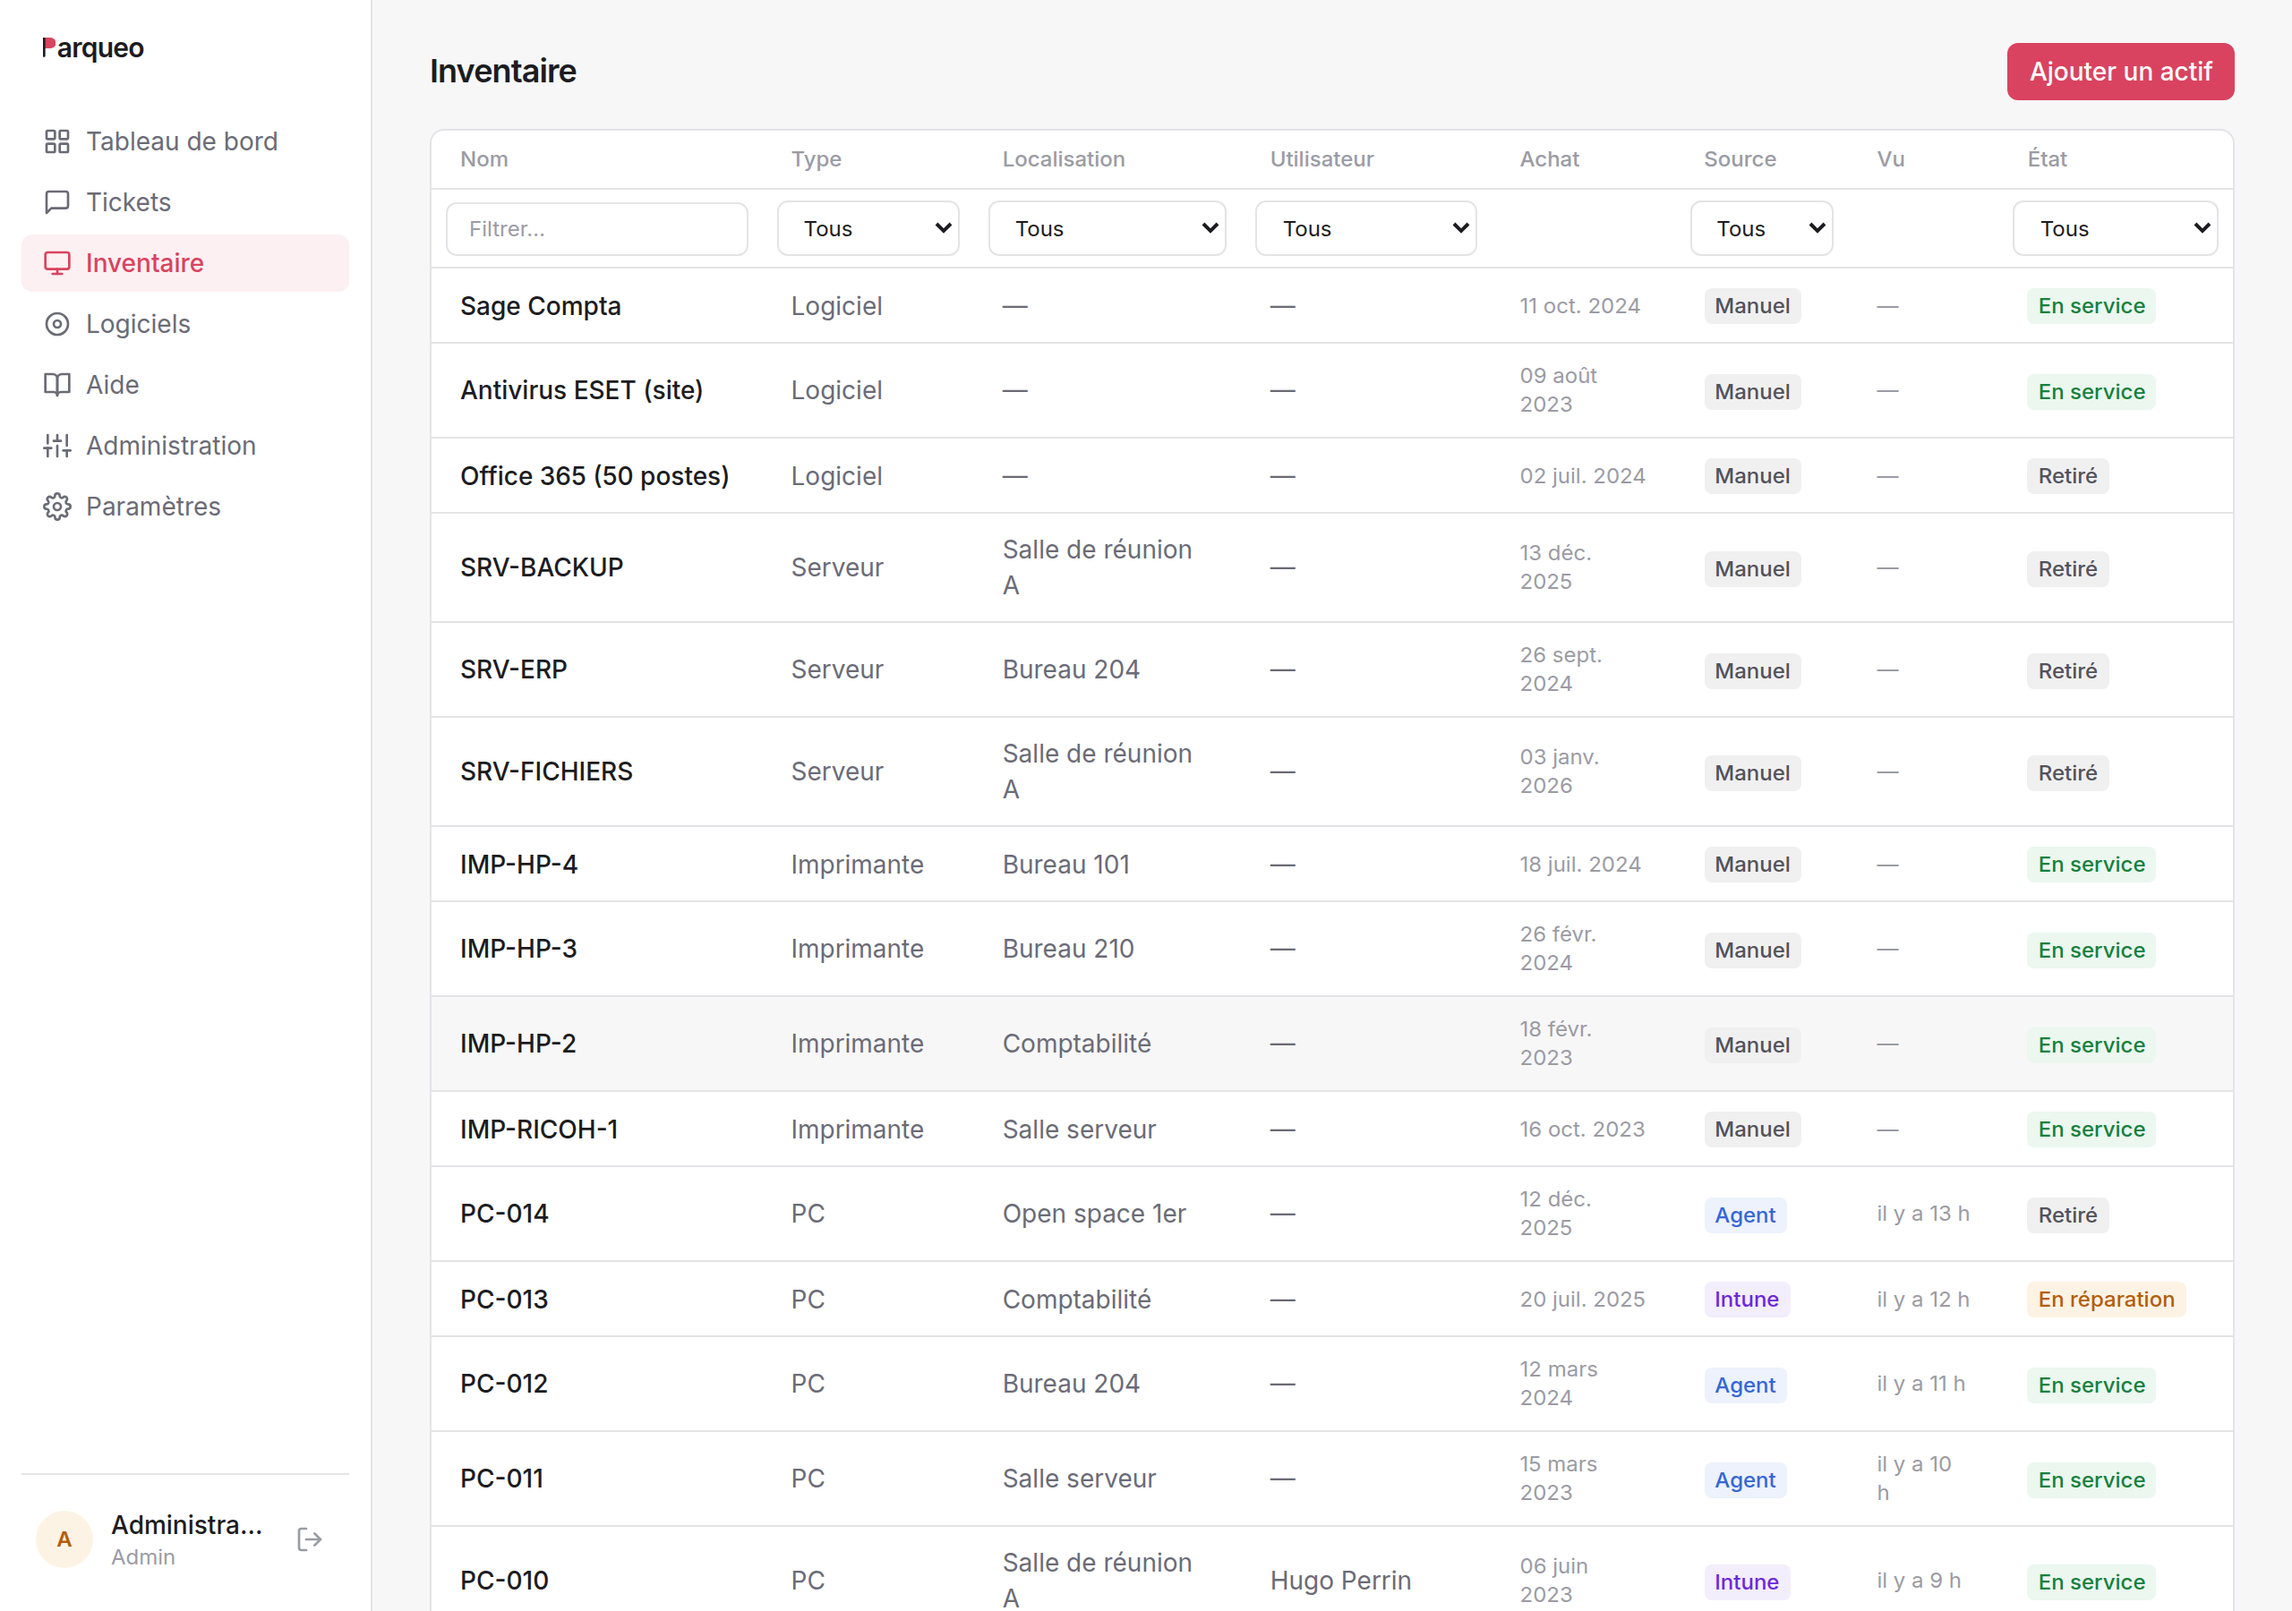
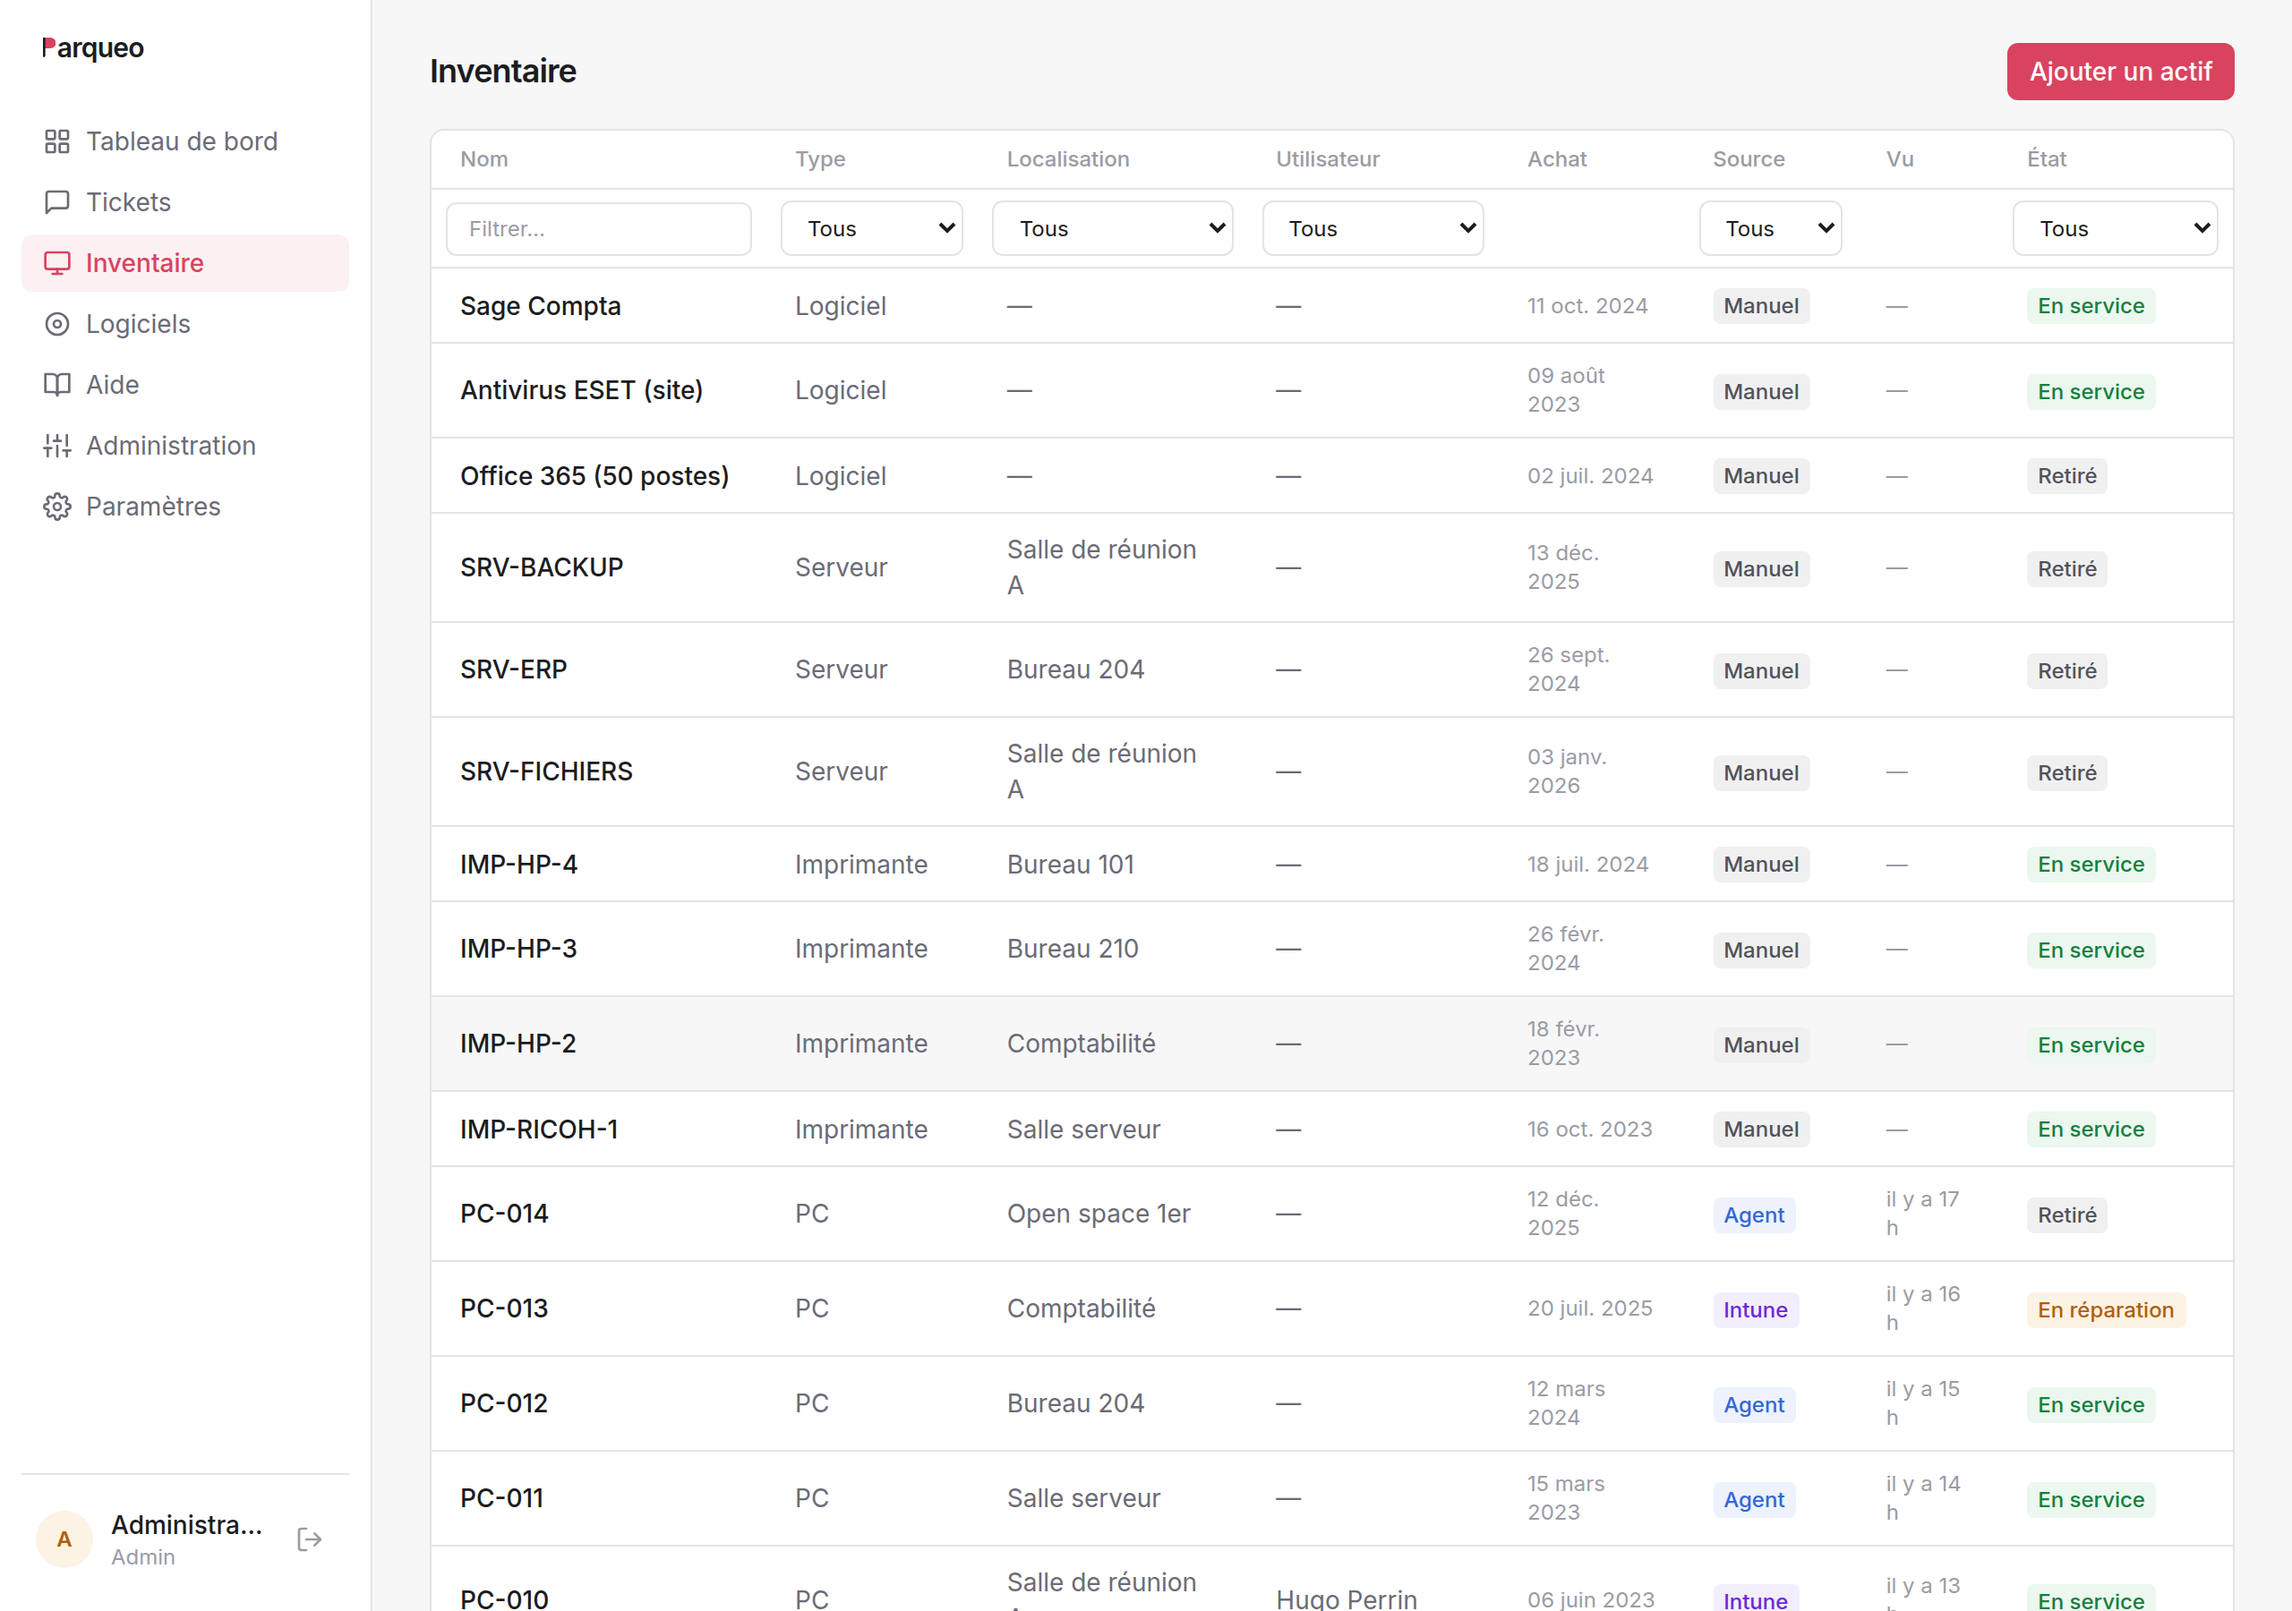
Docs : régénère les pages après les corrections du logiciel

diff --git a/docs/technique/index.html b/docs/technique/index.html
@@ -516,6 +516,17 @@ est sans état, voir §9.</p>
 <code>teamId</code>, <code>q</code> (titre/description), <code>sort</code>. <strong>Pagination</strong> : avec <code>page</code>, la
 réponse est <code>{ items, total, counts }</code> (<code>counts</code> = nombre de tickets par statut,
 calculé hors filtre de statut) ; <code>pageSize</code> accepte un entier (≤ 500) ou <code>all</code>.</p>
+<p>| GET | <code>/api/tickets/stats</code> | tous (filtré) — agrégats du tableau de bord |
+| DELETE | <code>/api/tickets/:id</code> | admin — suppression définitive (cascade + fichiers) |
+| DELETE | <code>/api/tickets/:id/attachments/:pjId</code> | support, ou l&#39;auteur de l&#39;envoi |</p>
+<p><code>GET /api/tickets/stats</code> renvoie en quelques kilo-octets tout ce qu&#39;affiche le
+tableau de bord : répartitions par statut, priorité, catégorie, assigné et
+équipe, ventilation par âge, flux hebdomadaire sur douze semaines, compteurs, et
+les listes courtes des widgets. Tout est calculé en SQL (<code>GROUP BY</code>) dans les
+limites de visibilité du demandeur.</p>
+<p><strong>Longueurs maximales</strong> (<code>src/lib/input.js</code>) : titre 200, description et
+commentaire 20 000, noms de référentiels 120, article 100 000 caractères. Un
+dépassement donne un 400 explicite.</p>
 <h3 id="53-inventaire">5.3 Inventaire<a class="anchor" href="#53-inventaire" aria-label="Lien vers cette section">#</a></h3>
 <div class="table-scroll"><table>
 <thead>
@@ -676,6 +687,9 @@ supprimer, ni supprimer un compte porteur de tickets (409).</p>
 </tr>
 </tbody></table>
 </div>
+<p>Catégories et équipes se suppriment (<code>DELETE /api/categories/:id</code>,
+<code>/api/teams/:id</code>, admin) tant qu&#39;elles ne sont référencées par rien : sinon 409
+avec le détail des usages. Leurs noms sont <strong>uniques</strong>.</p>
 <h3 id="56-paramètres">5.6 Paramètres<a class="anchor" href="#56-paramètres" aria-label="Lien vers cette section">#</a></h3>
 <div class="table-scroll"><table>
 <thead>
@@ -918,8 +932,11 @@ tout le monde).</li>
 d&#39;adresse, mais susceptible d&#39;apparaître dans les journaux du reverse proxy —
 filtrez les query strings.</li>
 <li><strong>Collecteur email</strong> : l&#39;expéditeur est vérifié par simple correspondance
-d&#39;adresse (ni SPF/DKIM/DMARC) ; une adresse usurpée peut créer un ticket. À
-filtrer en amont sur le serveur de messagerie.</li>
+d&#39;adresse (ni SPF/DKIM/DMARC) ; une adresse usurpée peut créer un ticket au
+nom de la personne usurpée. À filtrer en amont sur le serveur de messagerie.
+En revanche, une réponse par email <strong>applique la visibilité de l&#39;expéditeur</strong> :
+répondre en citant « Ticket #n » n&#39;écrit dans ce ticket que s&#39;il serait
+visible dans l&#39;interface ; sinon le message devient une demande à part.</li>
 <li><strong>Pièces jointes</strong> : liste blanche d&#39;extensions, sans analyse du contenu.</li>
 <li><strong>Débit</strong> : seul le login est limité ; ajoutez un quota au reverse proxy si
 l&#39;API est exposée publiquement.</li>
@@ -933,12 +950,14 @@ changer impérativement au premier démarrage.</li>
 <ul>
 <li>L&#39;API est un processus Node mono-thread léger : quelques dizaines
 d&#39;utilisateurs simultanés tiennent sur 1 vCPU / 1 Go, PostgreSQL compris.</li>
-<li><strong>Pagination serveur</strong> uniquement sur les tickets ; l&#39;inventaire, les
-utilisateurs et la base de connaissances sont paginés côté client. Le tableau
-de bord calcule ses métriques à partir de tous les tickets visibles — à
-plusieurs dizaines de milliers de tickets, prévoir des agrégats SQL.</li>
-<li><strong>Pièces jointes</strong> : stockées sur disque, <strong>jamais purgées</strong> (y compris à la
-suppression d&#39;un ticket). Surveiller l&#39;espace de <code>server/uploads/</code>.</li>
+<li><strong>Pagination serveur</strong> sur les tickets ; l&#39;inventaire, les utilisateurs et la
+base de connaissances sont paginés côté client — acceptable à leur volume.</li>
+<li>Le <strong>tableau de bord</strong> interroge <code>GET /api/tickets/stats</code>, agrégé en SQL :
+mesuré à 10 000 tickets, 11 ko en 67 ms, contre 5,2 Mo en 320 ms lorsqu&#39;il
+téléchargeait tous les tickets pour les compter dans le navigateur.</li>
+<li><strong>Pièces jointes</strong> : stockées sur disque. Elles sont retirées du disque à la
+suppression d&#39;un ticket ou de la pièce jointe elle-même ; rien ne purge en
+revanche les fichiers d&#39;avant cette version. Surveiller <code>server/uploads/</code>.</li>
 <li><strong>Journal d&#39;audit</strong> : la traçabilité repose sur les événements de ticket ; il
 n&#39;existe pas de journal distinct des créations de comptes, changements de rôle
 ou de paramètres.</li>

diff --git a/docs/fonctionnel/index.html b/docs/fonctionnel/index.html
@@ -912,6 +912,9 @@ l&#39;annuaire, commande de matériel, alerte dans Teams.</li>
 <p>Si le collecteur est activé, l&#39;adresse du support devient une porte d&#39;entrée à
 part entière : un email crée un ticket, une réponse à une notification ajoute un
 message. Voir §5.3.</p>
+<p>Une réponse n&#39;atterrit dans le ticket cité que si son expéditeur y a accès dans
+l&#39;interface. Sinon elle n&#39;est pas perdue : elle devient une nouvelle demande.
+Les mêmes règles de visibilité s&#39;appliquent donc par email et à l&#39;écran.</p>
 <hr>
 <h2 id="14-questions-fréquentes">14. Questions fréquentes<a class="anchor" href="#14-questions-fréquentes" aria-label="Lien vers cette section">#</a></h2>
 <p><strong>Un technicien me dit qu&#39;il ne voit pas un ticket.</strong>
@@ -944,6 +947,10 @@ et désactivable dans Paramètres.</p>
 Non. Il n&#39;est affiché qu&#39;une fois, dans le rapport d&#39;import. Ensuite, l&#39;intéressé
 le change lui-même depuis « Mon compte », ou un administrateur en définit un
 nouveau depuis la fiche de l&#39;utilisateur.</p>
+<p><strong>Peut-on supprimer un ticket ?</strong>
+Oui, un administrateur le peut depuis le ticket — définitivement, avec ses
+messages et ses pièces jointes, fichiers compris. C&#39;est l&#39;outil du droit à
+l&#39;effacement ; pour un simple ménage, préférez la clôture.</p>
 <p><strong>Un utilisateur a oublié son mot de passe.</strong>
 Il n&#39;y a pas encore de procédure « mot de passe oublié » par email : un
 administrateur lui en définit un nouveau depuis la fiche de l&#39;utilisateur, et
